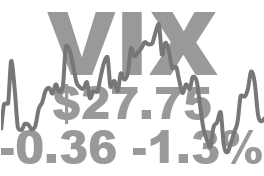
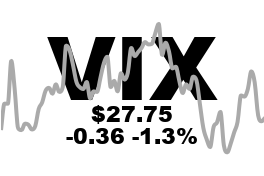
dark txt , lighter graph

diff --git a/drawing.py b/drawing.py
@@ -27,8 +27,8 @@ logging.basicConfig(level=logging.INFO)
 
 fnt = os.path.join(fontdir, 'Arial Black.ttf')
 
-chart_clr = 0x77 #https://www.color-hex.com
-tx_clr = 0x99
+chart_clr = 0xaa #https://www.color-hex.com
+tx_clr = 0
 bg_clr = 255
 
 
@@ -41,11 +41,8 @@ epd.Clear(0xFF)
 # these are flipped on purpose
 width = epd.height
 height = epd.width 
-logging.info(f"§¶¶¶§§§§§§§§§§§§")
-logging.info(f"\r\n{width} = width \r\n {height} =  height")
-logging.info(f"§¶¶¶§§§§§§§§§§§§")
 lg = int(height/2)
-sm = int(height/4)
+sm = int(height/8)
 padding = 0
 
 
@@ -110,7 +107,7 @@ def display_symbol(symbol:str):
     mid_price_idx = round(length/2)
     mid_price = history["Open"][mid_price_idx]
     # yvalue = (30 if mid_price < first_price  else height - 40)
-    im = update_msgs(msg=symbol,submsg=price,subsubmsg=prcnt_w_symbol,y=75)
+    im = update_msgs(msg=symbol,submsg=price,subsubmsg=prcnt_w_symbol,y=100)
     
     # create chart
     
